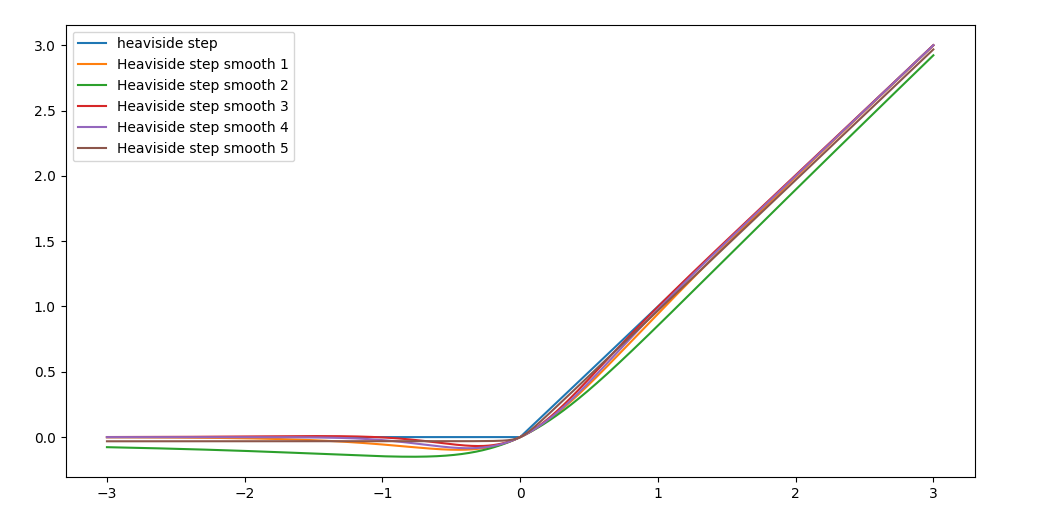
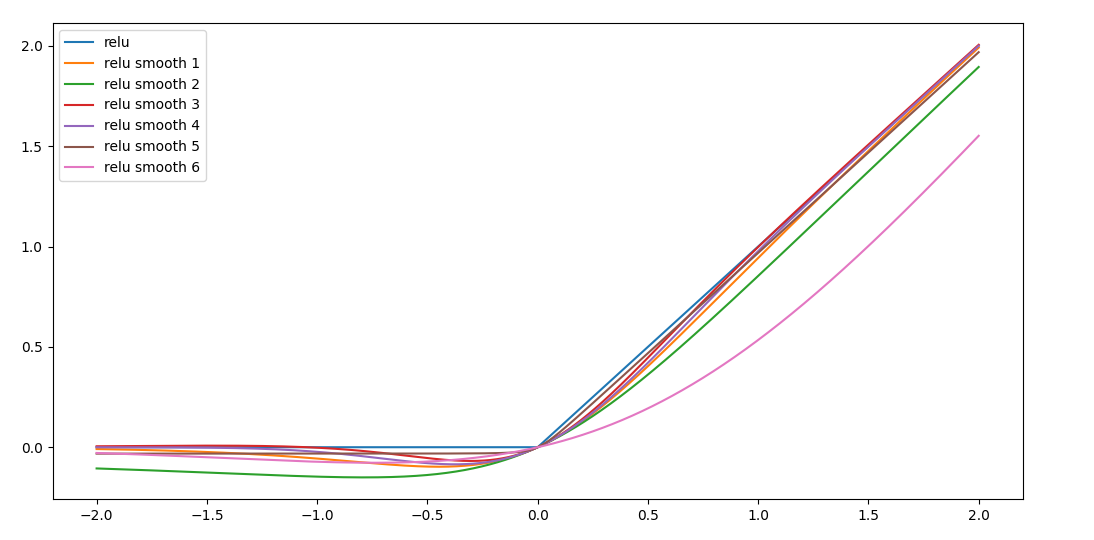
Fix image error

diff --git a/smooth_relu.py b/smooth_relu.py
@@ -2,7 +2,7 @@ import numpy as np
 from scipy.special import erf
 import matplotlib.pyplot as plt
 
-x = np.linspace(-1, 1, 10000)
+x = np.linspace(-2, 2, 10000)
 
 H = lambda x: np.heaviside(x, 0)
 
@@ -21,9 +21,12 @@ def Hs4(x, sigma=0.5):
 def Hs5(x, gamma=0.1):
     return 0.5 + np.arctan(x / gamma) / np.pi
 
-plt.plot(x, x * H(x), label="heaviside step")
-for i in range(1, 6):
+def Hs6(x, alpha=2):
+    return 1 / (1 + np.exp(-x)) ** alpha
+
+plt.plot(x, x * H(x), label="relu")
+for i in range(1, 7):
     func = vars()[f"Hs{i}"]
-    plt.plot(x, x * func(x), label=f"Heaviside step smooth {i}")
+    plt.plot(x, x * func(x), label=f"relu smooth {i}")
 plt.legend(loc="upper left")
 plt.show()

diff --git a/README.md b/README.md
@@ -12,4 +12,6 @@
 
 ## RELU光滑逼近
 
+relu衍生的六种激活函数对比，
+
 ![](asset/smooth-relu.png)
